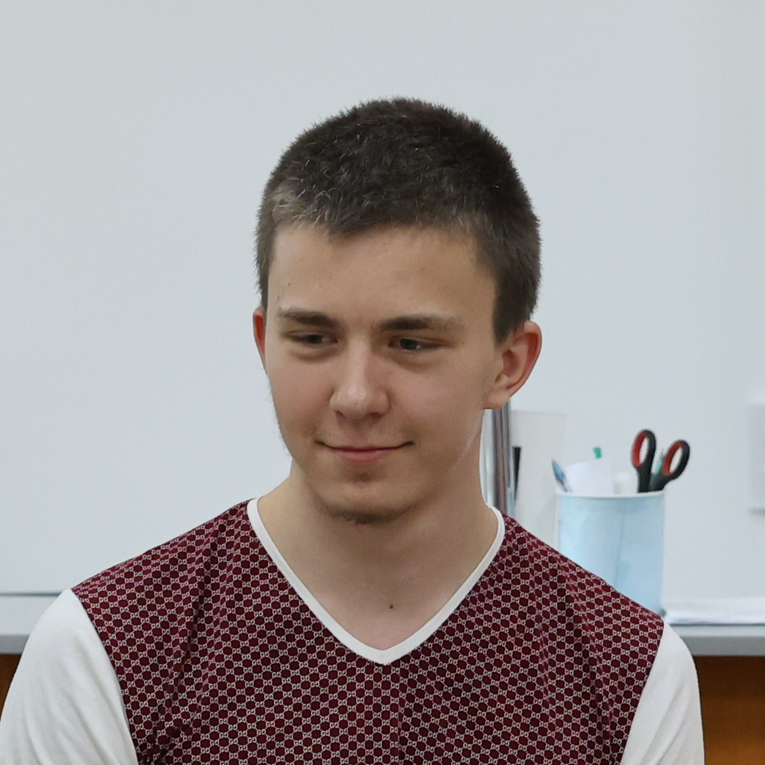
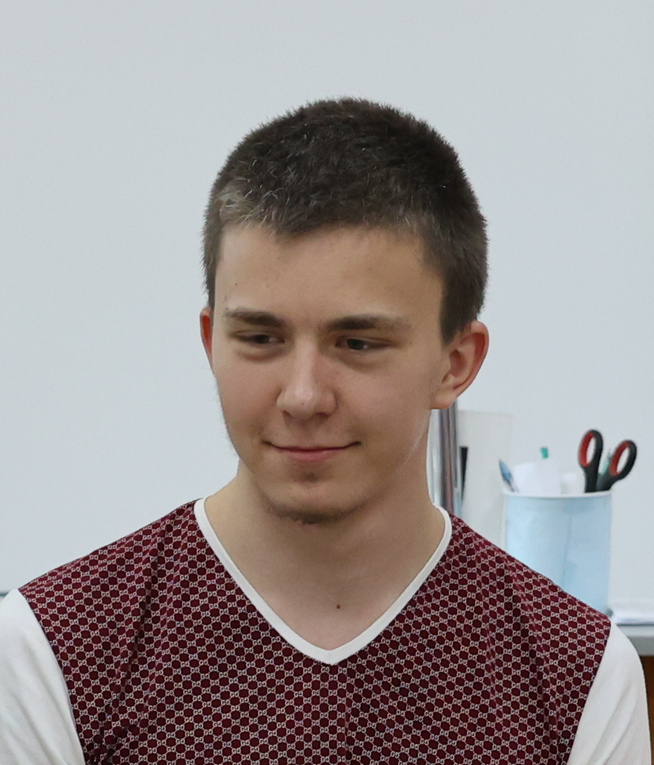
Update style.css, photo_of_myself.png

diff --git a/style.css b/style.css
@@ -94,14 +94,14 @@ section, footer {
 
 .image-wrap img {
     border-radius: 8px;
-    max-width: 100%;
+    width: 100%;
     height: auto;
+
 }
 
 #about {
     background: #1E1E1E;
-    /* Restored original padding-bottom and removed other padding */
-    padding-top: 60px; /* Added some top padding for spacing */
+    padding-top: 60px;
     padding-bottom: 66px;
     padding-left: 0;
     padding-right: 0;
